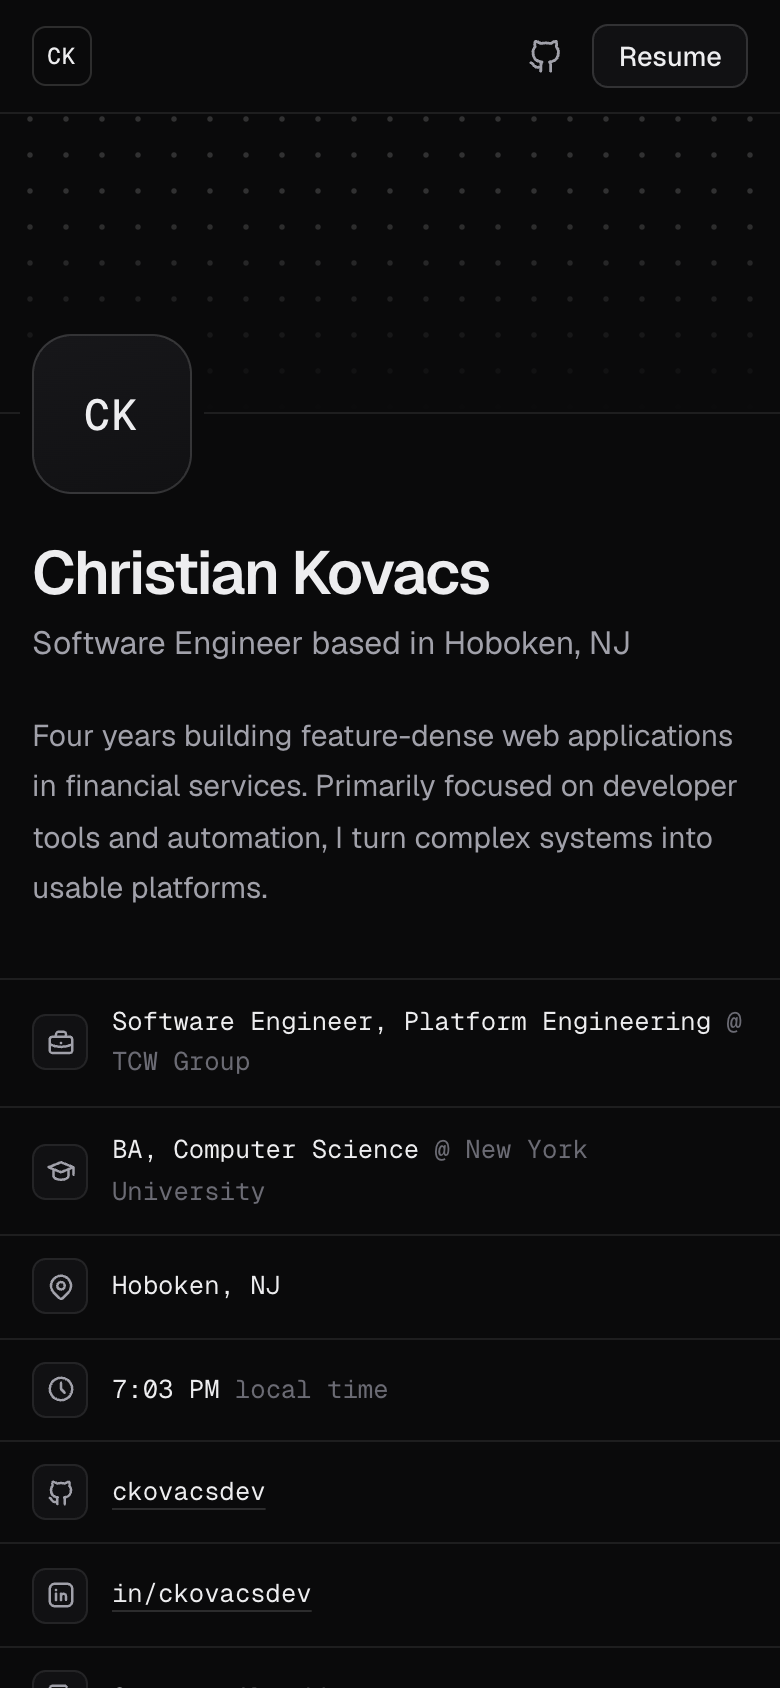
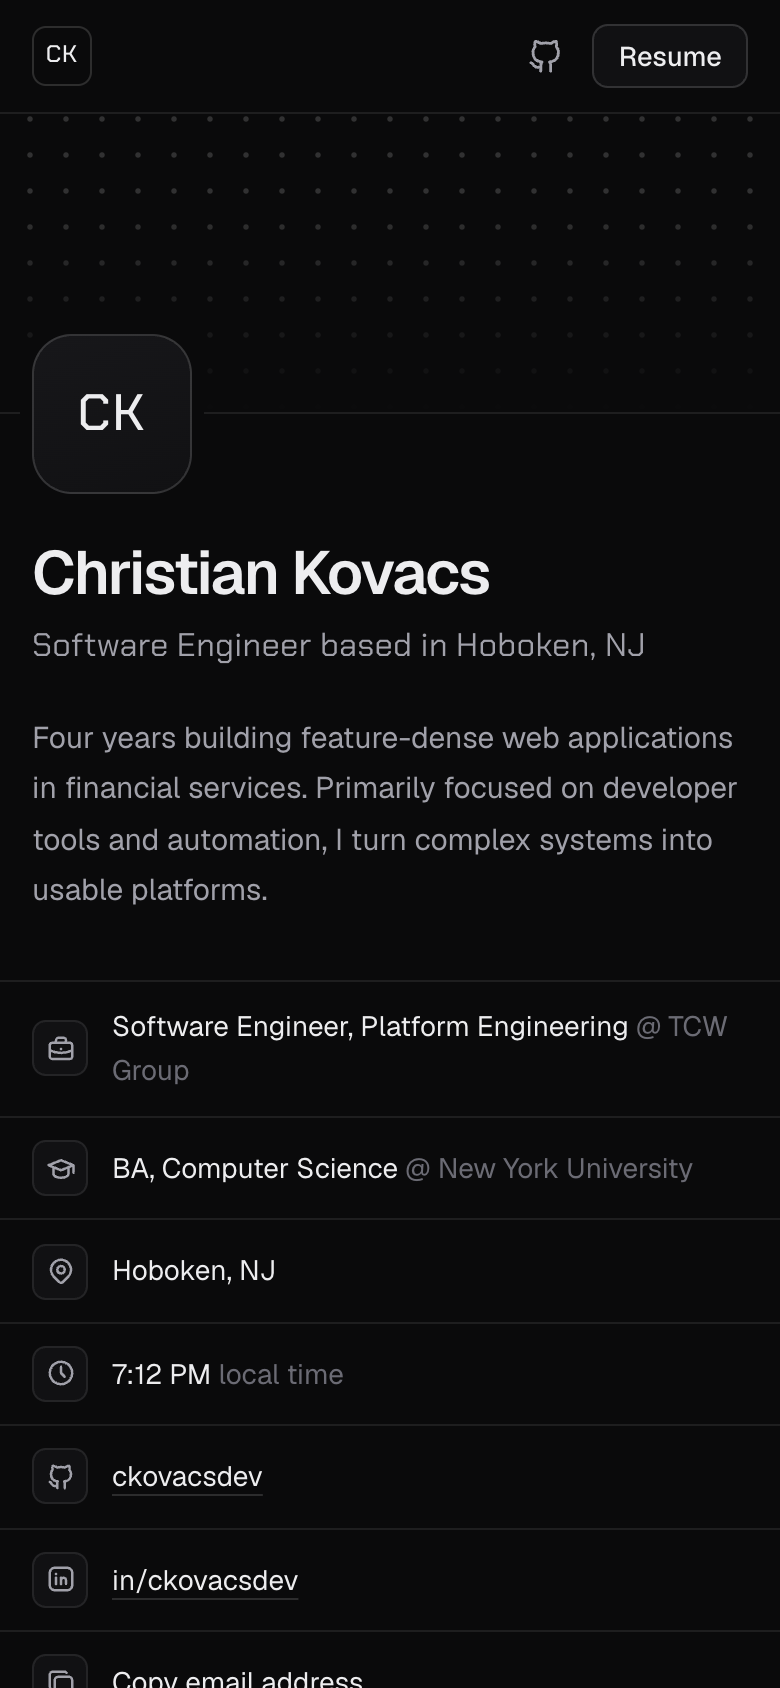
updated secondary font

diff --git a/src/sections/profile/profile.css b/src/sections/profile/profile.css
@@ -35,8 +35,8 @@
     border-radius: 20px;
     background: linear-gradient(160deg, var(--panel-raised), var(--panel));
     box-shadow: 0 0 0 6px var(--bg);
-    font-family: var(--font-mono);
-    font-size: 1.6rem;
+    font-family: var(--font-accent);
+    font-size: 1.9rem;
     font-weight: 500;
     letter-spacing: 0.04em;
 }
@@ -48,9 +48,11 @@
 }
 
 .profile-role{
-    margin-block-start: 0.25rem;
+    margin-block-start: 0.3rem;
     color: var(--text-muted);
-    font-size: 1rem;
+    font-family: var(--font-accent);
+    font-size: 1.02rem;
+    letter-spacing: 0.01em;
 }
 
 .profile-bio{
@@ -77,8 +79,7 @@
     min-inline-size: 0;
     padding: 0.7rem var(--gutter);
     border-block-end: 1px solid var(--line);
-    font-family: var(--font-mono);
-    font-size: 0.8rem;
+    font-size: 0.875rem;
 }
 .profile-fact:nth-child(odd){
     border-inline-end: 1px solid var(--line);
@@ -134,7 +135,7 @@
         inline-size: 80px;
         block-size: 80px;
         margin-block-start: -40px;
-        font-size: 1.35rem;
+        font-size: 1.6rem;
     }
     .profile-facts{
         grid-template-columns: minmax(0, 1fr);

diff --git a/public/404.html b/public/404.html
@@ -8,7 +8,7 @@
     <link rel="icon" type="image/svg+xml" href="/favicon.svg" />
     <link rel="preconnect" href="https://fonts.googleapis.com">
     <link rel="preconnect" href="https://fonts.gstatic.com" crossorigin>
-    <link href="https://fonts.googleapis.com/css2?family=Geist:wght@400;500;600&family=Geist+Mono:wght@400&display=swap" rel="stylesheet">
+    <link href="https://fonts.googleapis.com/css2?family=Geist:wght@400;500;600&family=Chakra+Petch:wght@500&display=swap" rel="stylesheet">
     <style>
       :root {
         color-scheme: dark;
@@ -44,8 +44,8 @@
       }
       h1 {
         margin: 0;
-        font-family: 'Geist Mono', ui-monospace, monospace;
-        font-weight: 400;
+        font-family: 'Chakra Petch', system-ui, sans-serif;
+        font-weight: 500;
         font-size: clamp(56px, 16vw, 96px);
         letter-spacing: -0.04em;
         line-height: 1;

diff --git a/index.html b/index.html
@@ -16,7 +16,7 @@
     <link rel="icon" type="image/svg+xml" href="/favicon.svg" />
     <link rel="preconnect" href="https://fonts.googleapis.com">
     <link rel="preconnect" href="https://fonts.gstatic.com" crossorigin>
-    <link href="https://fonts.googleapis.com/css2?family=Geist:wght@400;500;600&family=Geist+Mono:wght@400;500&display=swap" rel="stylesheet">
+    <link href="https://fonts.googleapis.com/css2?family=Geist:wght@400;500;600&family=Chakra+Petch:wght@400;500&display=swap" rel="stylesheet">
     <meta name="viewport" content="width=device-width, initial-scale=1.0" />
     <title>Christian Kovacs | Software Engineer</title>
     <meta name="description" content="Christian Kovacs is a software engineer in Hoboken, NJ, building developer platforms, automation, and feature-dense web applications in financial services." />

diff --git a/src/components/contributions/contributions.css b/src/components/contributions/contributions.css
@@ -27,8 +27,7 @@
     grid-template-columns: subgrid;
     block-size: 1.1rem;
     color: var(--text-faint);
-    font-family: var(--font-mono);
-    font-size: 0.68rem;
+    font-size: 0.7rem;
     line-height: 1;
 }
 .contributions-months span{
@@ -87,8 +86,7 @@
     gap: 0.5rem 1rem;
     margin-block-start: 0.75rem;
     color: var(--text-faint);
-    font-family: var(--font-mono);
-    font-size: 0.72rem;
+    font-size: 0.75rem;
 }
 
 .contributions-link{

diff --git a/src/index.css b/src/index.css
@@ -19,7 +19,8 @@
 	--accent: rgb(var(--accent-rgb));
 
 	--font-sans: 'Geist', ui-sans-serif, system-ui, sans-serif;
-	--font-mono: 'Geist Mono', ui-monospace, 'SF Mono', Menlo, monospace;
+	/* The secondary face, for a few small accents only: monogram, title line, tech lines, dates, counts */
+	--font-accent: 'Chakra Petch', 'Geist', ui-sans-serif, system-ui, sans-serif;
 
 	/* Layout */
 	--column: 760px;

diff --git a/src/components/case-study/case-study.css b/src/components/case-study/case-study.css
@@ -16,7 +16,6 @@
 
 .details-heading{
     color: var(--text-faint);
-    font-family: var(--font-mono);
     font-size: 0.72rem;
     font-weight: 500;
     letter-spacing: 0.08em;
@@ -75,8 +74,7 @@
 
 .details-stack-value{
     margin: 0;
-    font-family: var(--font-mono);
-    font-size: 0.8rem;
+    font-size: 0.85rem;
 }
 
 @media screen and (max-width: 640px){

diff --git a/src/components/project-card/project-card.css b/src/components/project-card/project-card.css
@@ -19,10 +19,11 @@
 }
 
 .project-card-tech{
-    margin-block-start: 0.3rem;
-    color: var(--text-faint);
-    font-family: var(--font-mono);
-    font-size: 0.75rem;
+    margin-block-start: 0.2rem;
+    color: var(--text-muted);
+    font-family: var(--font-accent);
+    font-size: 0.82rem;
+    letter-spacing: 0.02em;
 }
 
 .project-card-summary{

diff --git a/src/components/header/header.css b/src/components/header/header.css
@@ -26,8 +26,8 @@
     block-size: 30px;
     border: 1px solid var(--line-strong);
     border-radius: 7px;
-    font-family: var(--font-mono);
-    font-size: 0.72rem;
+    font-family: var(--font-accent);
+    font-size: 0.75rem;
     font-weight: 500;
     letter-spacing: 0.04em;
     text-decoration: none;

diff --git a/src/sections/experience/experience.css b/src/sections/experience/experience.css
@@ -53,9 +53,10 @@
 }
 
 .experience-role-dates{
-    color: var(--text-faint);
-    font-family: var(--font-mono);
-    font-size: 0.75rem;
+    color: var(--text-muted);
+    font-family: var(--font-accent);
+    font-size: 0.82rem;
+    letter-spacing: 0.02em;
     white-space: nowrap;
 }
 

diff --git a/src/components/section/section.css b/src/components/section/section.css
@@ -31,9 +31,10 @@
 }
 
 .section-meta{
-    color: var(--text-faint);
-    font-family: var(--font-mono);
-    font-size: 0.75rem;
+    color: var(--text-muted);
+    font-family: var(--font-accent);
+    font-size: 0.82rem;
+    letter-spacing: 0.02em;
     text-align: end;
 }
 

diff --git a/src/components/footer/footer.css b/src/components/footer/footer.css
@@ -12,8 +12,7 @@
     padding: 1.5rem var(--gutter) 2rem;
     border-inline: 1px solid var(--line);
     color: var(--text-faint);
-    font-family: var(--font-mono);
-    font-size: 0.75rem;
+    font-size: 0.8rem;
 }
 
 .footer-group{

diff --git a/src/sections/skills/skills.css b/src/sections/skills/skills.css
@@ -57,8 +57,7 @@
     border-radius: 6px;
     background: rgb(255 255 255 / 0.02);
     color: var(--text-muted);
-    font-family: var(--font-mono);
-    font-size: 0.75rem;
+    font-size: 0.8rem;
     line-height: 1.3;
 }
 
